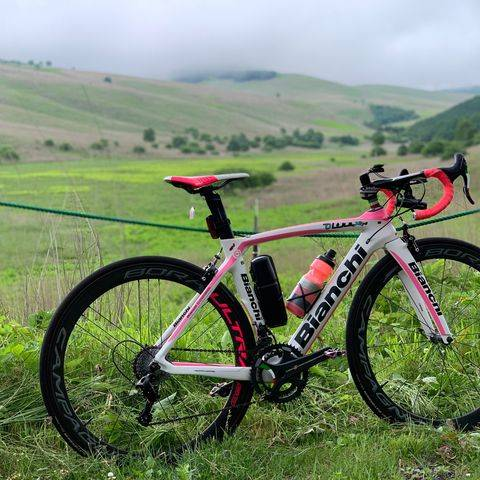
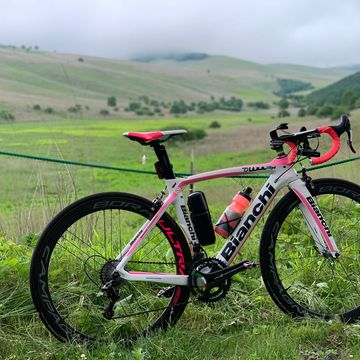
アルバムのサムネを360pxに縮小(原画から作り直し)。管理画面の追加時も360px
Claude-Session: https://claude.ai/code/session_01LsPVr9NQCkogLCWfDFovXW

diff --git a/top/admin/index.html b/top/admin/index.html
@@ -61,7 +61,7 @@
 
   <section id="addSec">
     <h2>写真を追加</h2>
-    <p class="note">写真を選ぶと、ブラウザの中で縮小します(公開用 長辺1600px・一覧用 480px)。このとき撮影場所(GPS)などの情報は取り除かれます。1回に10枚までです。JPG・PNG・WebP が使えます(iPhone の HEIC は、多くのパソコンのブラウザで開けないため、JPG に変換してください)。</p>
+    <p class="note">写真を選ぶと、ブラウザの中で縮小します(公開用 長辺1600px・一覧用 360px)。このとき撮影場所(GPS)などの情報は取り除かれます。1回に10枚までです。JPG・PNG・WebP が使えます(iPhone の HEIC は、多くのパソコンのブラウザで開けないため、JPG に変換してください)。</p>
     <input type="file" id="files" accept="image/jpeg,image/png,image/webp" multiple>
     <p class="note" id="addHint" hidden>追加前に、人の顔・表札・ナンバーなどの個人情報が写っていないか確認してください。同じ写真は自動で外れます。写真を押すと「追加する/しない」が切り替わり、左上の「×」で一覧から取り除けます。</p>
     <div class="grid" id="addGrid"></div>
@@ -152,7 +152,7 @@ function explain(e){
 }
 
 /* ---------- 写真の追加 ---------- */
-const MAX_ADD = 10, FULL_LONG = 1600, THUMB = 480, DUP_SIM = 0.95;
+const MAX_ADD = 10, FULL_LONG = 1600, THUMB = 360, DUP_SIM = 0.95;
 let addItems = [];
 const hashCache = new Map();         // 既存の写真の「見た目の指紋」(同じ写真の検出用)
 

diff --git a/functions/top/admin/api/add.js b/functions/top/admin/api/add.js
@@ -1,5 +1,5 @@
 // POST /top/admin/api/add  { "photos": [ { "full": "<base64 JPEG>", "thumb": "<base64 JPEG>" }, ... ] }  … マイアルバムに写真を追加する(Access 配下)
-// 画像の縮小(長辺1600px / 一覧用480px)と位置情報の除去は、管理画面(ブラウザ)側で済んでいる。ここでは形式と大きさを確認して保存する。
+// 画像の縮小(長辺1600px / 一覧用360px)と位置情報の除去は、管理画面(ブラウザ)側で済んでいる。ここでは形式と大きさを確認して保存する。
 // 必要な環境変数: GITHUB_TOKEN(シークレット) / ACCESS_AUD
 import { gh, json, guard, readHead, commitAll } from "../../../_lib/admin.js";
 

diff --git a/top/index.html b/top/index.html
@@ -227,7 +227,7 @@ function buildAlbum(){
     const b = el("button","album-item");
     b.type = "button"; b.setAttribute("aria-label","写真を大きく表示");
     const im = new Image();
-    im.src = src.replace("album/","album/t/"); im.loading = "lazy"; im.decoding = "async"; im.width = 480; im.height = 480; im.alt = "";
+    im.src = src.replace("album/","album/t/"); im.loading = "lazy"; im.decoding = "async"; im.width = 360; im.height = 360; im.alt = "";
     im.onerror = ()=> b.remove();
     b.appendChild(im);
     b.addEventListener("click",()=> openAlbum(src));
